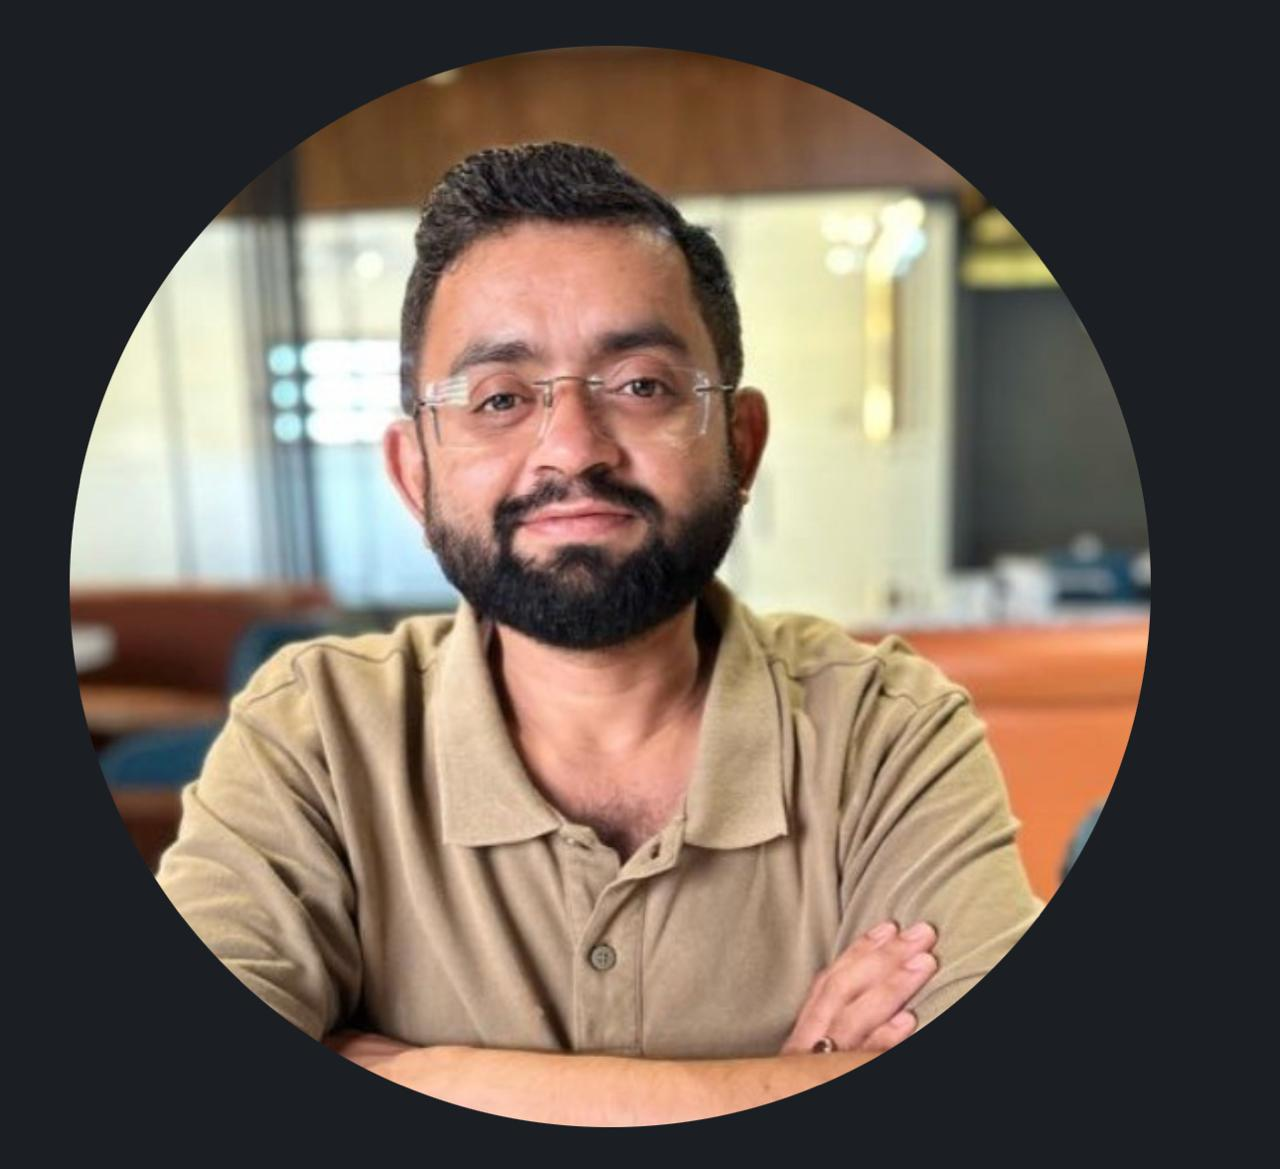
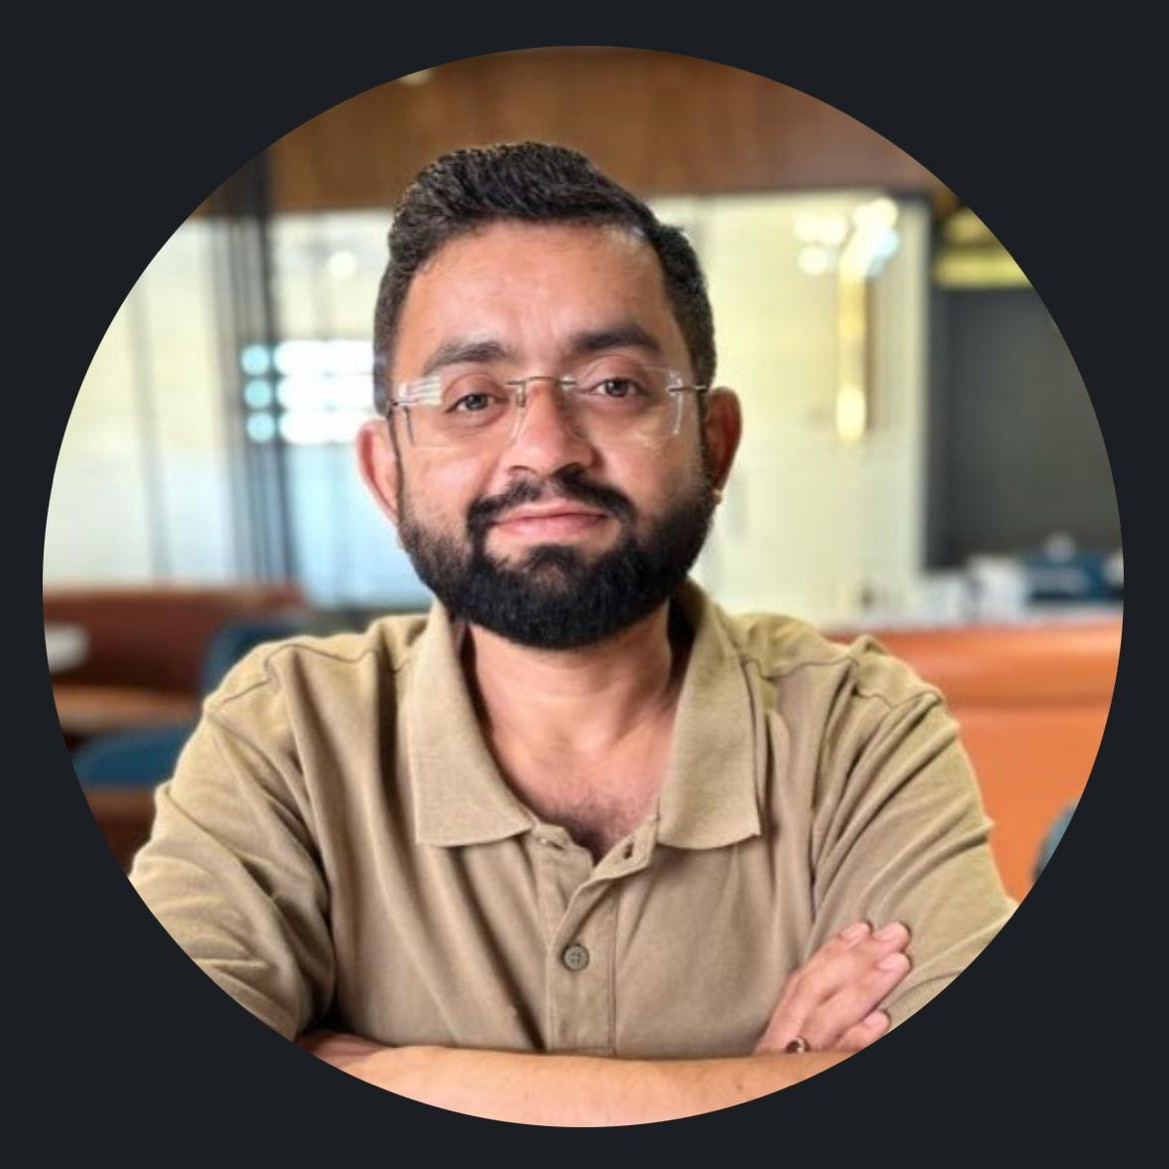
headerfix

diff --git a/src/components/academic/facTeacherUpdates.css b/src/components/academic/facTeacherUpdates.css
@@ -43,7 +43,9 @@
   display: flex;
   gap: 0.5rem;
   align-items: center;
+  
 }
+
 
 .unread-count-pill {
   background: #fee2e2;
@@ -53,6 +55,20 @@
   border-radius: 20px;
   font-size: 0.8rem;
   font-weight: 700;
+  animation: pulse 1.2s infinite ease-in-out;
+}
+
+@keyframes pulse {
+  0%{
+
+  }
+  50%{
+    box-shadow: 0px 0px 7px red;
+  }
+  100%{
+
+  }
+  
 }
 
 .updates-filter-bar {
@@ -150,7 +166,7 @@
   position: relative;
   opacity: 1;
   display: flex;
-   border-top: 4px solid #1e2882;
+  border-top: 4px solid #1e2882;
   flex-direction: column;
   gap: 0.75rem;
 }
@@ -197,6 +213,7 @@
   color: #64748b;
 }
 
+
 .notice-badges-row {
   display: flex;
   align-items: center;
@@ -213,7 +230,7 @@
 .priority-badge.urgent {
   background: #fee2e2;
   color: #dc2626;
-  animation: blinksp 1.2s infinite ease-in-out;
+  animation: blinksp 1s infinite ease-in-out;
 }
 
 @keyframes blinksp {
@@ -221,7 +238,6 @@
   }
 
   50% {
-    display: none;
     opacity: 0;
   }
 
@@ -276,13 +292,11 @@
   justify-content: space-between;
   align-items: center;
   padding-top: 0.6rem;
-  border-top: 1px solid #f1f5f9;
   flex-wrap: wrap;
   gap: 0.75rem;
 }
 
 .attachment-pill {
-  display: inline-flex;
   align-items: center;
   gap: 0.4rem;
   background: #f8fafc;
@@ -437,47 +451,3 @@
 .widget-priority.normal {
   color: #2563eb;
 }
-
-.updates-drawer-overlay {
-  position: fixed;
-  inset: 0;
-  background: rgba(15, 23, 42, 0.4);
-  backdrop-filter: blur(4px);
-  z-index: 1100;
-  display: flex;
-  justify-content: flex-end;
-  animation: fadeIn 0.2s ease;
-}
-
-@keyframes fadeIn {
-  from {
-    opacity: 0;
-  }
-
-  to {
-    opacity: 1;
-  }
-}
-
-.updates-drawer {
-  width: 540px;
-  max-width: 90vw;
-  height: 100vh;
-  background: #ffffff;
-  box-shadow: -10px 0 30px rgba(0, 0, 0, 0.15);
-  display: flex;
-  flex-direction: column;
-  animation: slideInRight 0.3s cubic-bezier(0.16, 1, 0.3, 1);
-  overflow-y: auto;
-}
-
-@keyframes slideInRight {
-  from {
-    transform: translateX(100%);
-  }
-
-  to {
-    transform: translateX(0);
-  }
-}
-

diff --git a/src/components/academic/facTeacherUpdates.jsx b/src/components/academic/facTeacherUpdates.jsx
@@ -110,7 +110,7 @@ export default function TeacherUpdates({ onBack }) {
   const filteredUpdates = updates.filter((item) => {
     const matchesCategory =
       activeCategory === "All" ||
-      (activeCategory === "Urgent" && item.priority === "Urgent") ||
+      (activeCategory === "Urgent" && item.priority === "Urgent") || (activeCategory === "Unread" && item.read === false) ||
       item.category === activeCategory;
 
     const q = searchQuery.toLowerCase();
@@ -180,6 +180,7 @@ export default function TeacherUpdates({ onBack }) {
             "Research",
             "Exam Cell",
             "Administrative",
+            "Unread"
           ].map((cat) => (
             <button
               key={cat}
@@ -207,7 +208,7 @@ export default function TeacherUpdates({ onBack }) {
           >
             <div className="notice-card-top">
               <div className="notice-sender-group">
-                <div
+                <div 
                   className="sender-icon-box"
                   style={{ background: notice.iconBg }}
                 >
@@ -276,7 +277,7 @@ export default function TeacherUpdates({ onBack }) {
                 >
                   {notice.read
                     ? "Mark Unread"
-                    : "✓ Mark as Read"}
+                    : "Mark as Read"}
                 </button>
               </div>
             </div>

diff --git a/src/components/academic/facFacultyDashboard.jsx b/src/components/academic/facFacultyDashboard.jsx
@@ -11,16 +11,13 @@ import FacNotesUpload from "./facNotesUpload";
 import FacPerformance from "./facPerformance";
 
 function FacultyDashboard({ user, onLogout }) {
-    // Navigation State
     const [activeTab, setActiveTab] = useState("Dashboard");
     const [isMobileMenuOpen, setIsMobileMenuOpen] = useState(false);
     const [isUpdatesDrawerOpen, setIsUpdatesDrawerOpen] = useState(false);
 
-    // Settings State
     const [autoSync, setAutoSync] = useState(true);
     const [defaulterAlerts, setDefaulterAlerts] = useState(true);
 
-    // Single Course Info
     const courseCode = "CS-301";
     const courseName = "Artificial Intelligence & Machine Learning";
     const facultyName = "Dr. Yogender Sharma";

diff --git a/src/components/layout/header.jsx b/src/components/layout/header.jsx
@@ -57,13 +57,16 @@ function FacultyHeader({ title = 'Faculty Portal', user, onLogout, onToggleMobil
         <h1 className="header-title">{title}</h1>
       </div>
 
+<div className='header-center'>
+
+        <h2>Explore <span>Your</span> Potential</h2>
+
+      </div>
+
       
 
       <div className="header-right">
-        <div className="header-search">
-          <span>🔍</span>
-          <input type="text" placeholder="Search students, batches..." />
-        </div>
+        
 
         <div className="userbadge">
           <div className="avatar faculty-avatar">

diff --git a/src/components/layout/header.css b/src/components/layout/header.css
@@ -118,8 +118,8 @@ font-family: Arial, Helvetica, sans-serif;
 }
 
 .avatar {
-  width: 32px;
-  height: 32px;
+  width: 30px;
+  height: 30px;
   border-radius: 50%;
   display: flex;
   align-items: center;
@@ -188,10 +188,14 @@ font-family: Arial, Helvetica, sans-serif;
   .header-title {
     font-size: 1.1rem;
   }
+  
   .user-role {
     display: none;
   }
   .userbadge {
     padding: 4px 8px;
+  }
+  .header-center{
+    display: none;
   }
 }

diff --git a/src/components/academic/facFacultyDashboard.css b/src/components/academic/facFacultyDashboard.css
@@ -1,3 +1,4 @@
+
 .faculty-dashboard {
   display: flex;
   min-height: 100vh;
@@ -11,8 +12,6 @@
   flex: 1;
   width: 100%;
   min-width: 0;
-  padding: 1.5rem 2rem;
-  overflow-y: auto;
   display: flex;
   flex-direction: column;
   gap: 1.25rem;
@@ -24,6 +23,7 @@
   display: flex;
   flex-direction: column;
   gap: 1.5rem;
+  padding: 1.5rem 2rem;
   width: 100%;
   max-width: none;
   box-sizing: border-box;
